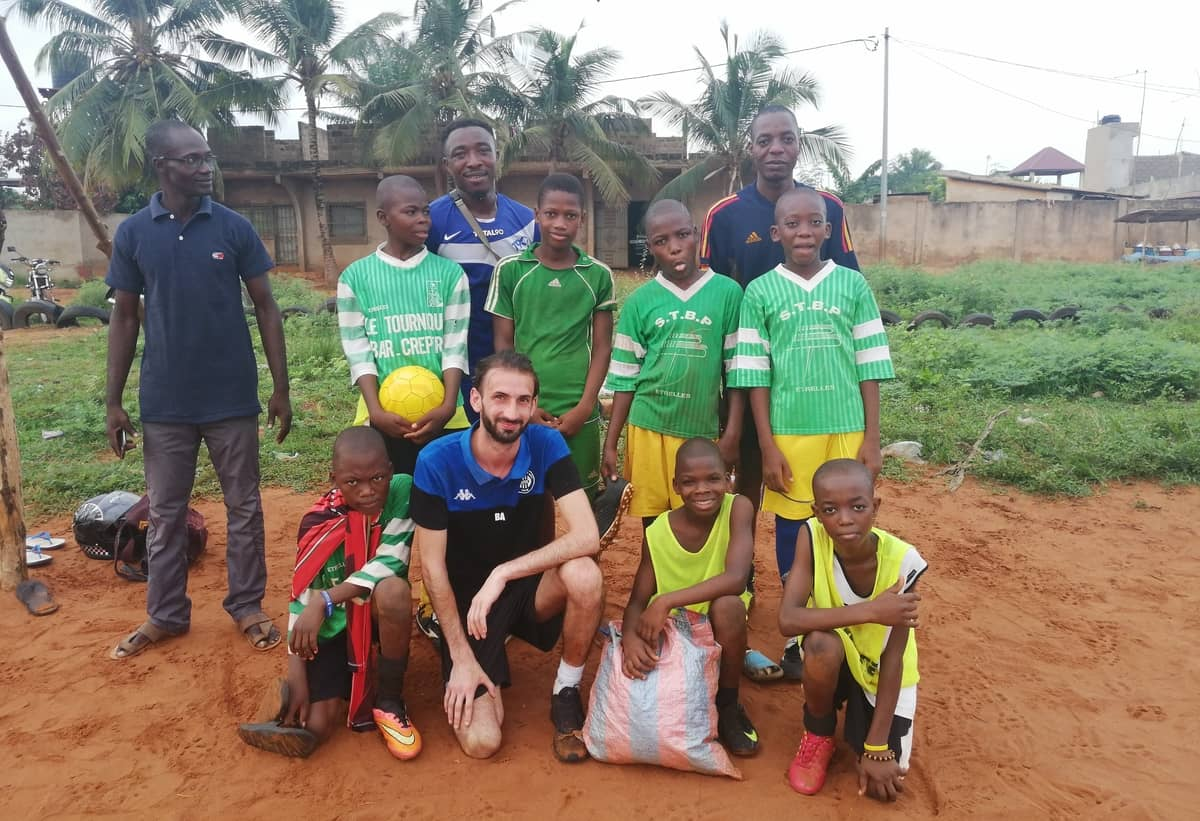
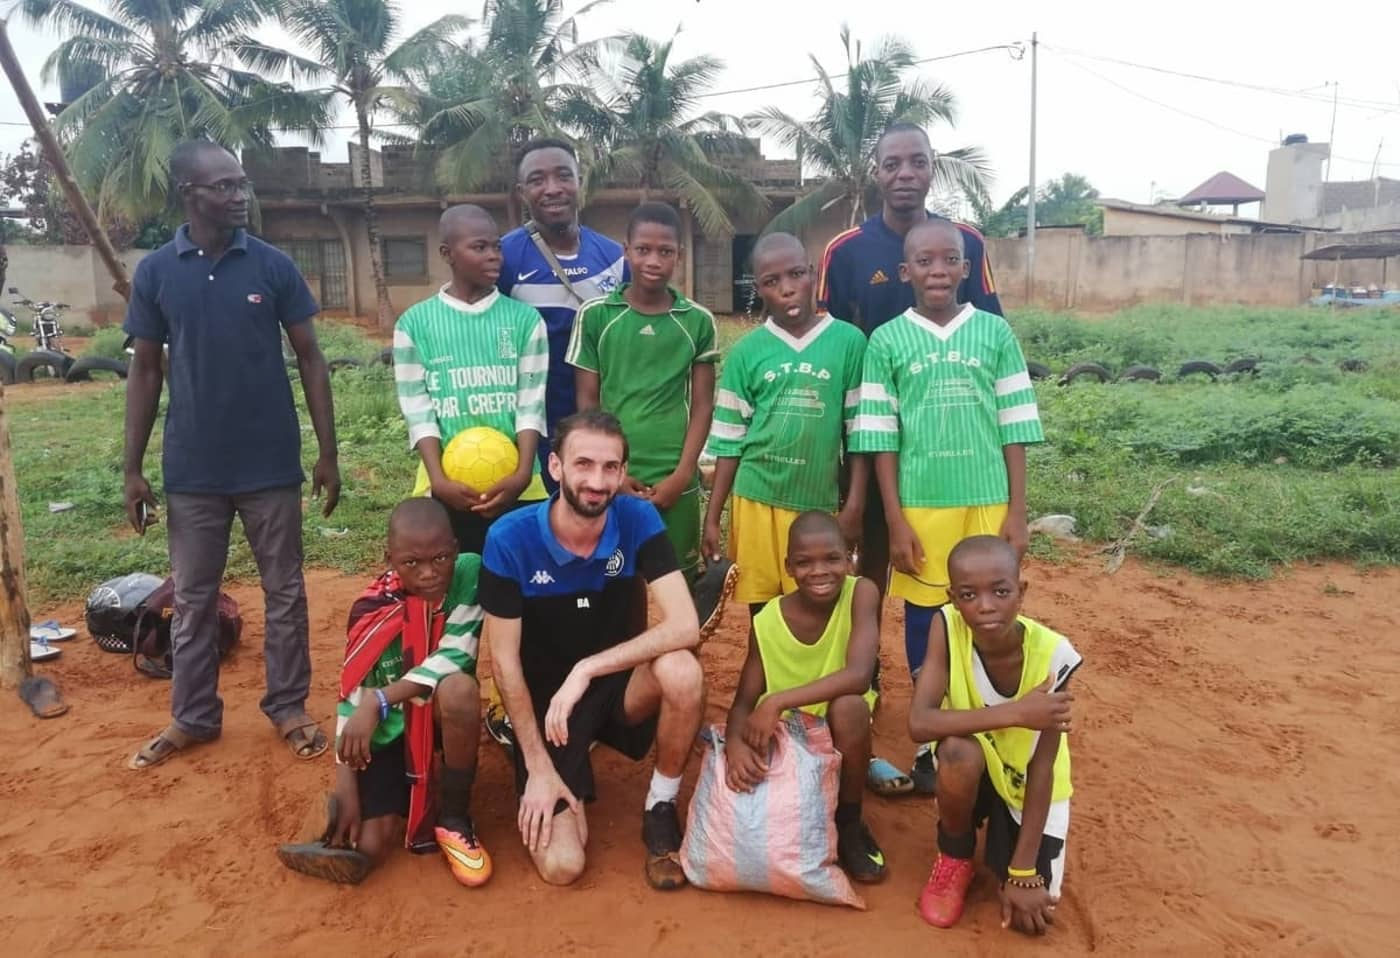
ajout et modif footer

Changed region(s): [[0.4317, 0.5786, 0.4625, 0.609], [0.2158, 0.0305, 0.2467, 0.0609]]

diff --git a/pages/contact.html b/pages/contact.html
@@ -162,7 +162,7 @@
     <div class="items-contact">
       <img
         class="img-contact"
-        src="../assets/img/team-marem.png"
+        src="../assets/img/team-marem.jpg"
         alt="photo team marem"
       />
 
@@ -229,7 +229,7 @@
             alt="logo"
           />
         </div>
-        <h5>&copy; 2021 - Marem France</h5>
+        <h5>&copy; 2021 Marem Togo - France</h5>
       </div>
       <div class="items-socialmedia">
         <ul>

diff --git a/index.html b/index.html
@@ -351,7 +351,7 @@
             alt="logo"
           />
         </div>
-        <h5>&copy; 2021 - Marem France</h5>
+        <h5>&copy; 2021 Marem Togo - France</h5>
       </div>
       <div class="items-socialmedia">
         <ul>

diff --git a/pages/centreAccueil.html b/pages/centreAccueil.html
@@ -312,7 +312,7 @@
             alt="logo"
           />
         </div>
-        <h5>&copy; 2021 - Marem France</h5>
+        <h5>&copy; 2021 Marem Togo - France</h5>
       </div>
       <div class="items-socialmedia">
         <ul>

diff --git a/pages/faireUnDon.html b/pages/faireUnDon.html
@@ -413,7 +413,7 @@
             alt="logo"
           />
         </div>
-        <h5>&copy; 2021 - Marem France</h5>
+        <h5>&copy; 2021 Marem Togo - France</h5>
       </div>
       <div class="items-socialmedia">
         <ul>

diff --git a/pages/maremFrance.html b/pages/maremFrance.html
@@ -212,7 +212,7 @@
             alt="logo"
           />
         </div>
-        <h5>&copy; 2021 - Marem France</h5>
+        <h5>&copy; 2021 Marem Togo - France</h5>
       </div>
       <div class="items-socialmedia">
         <ul>

diff --git a/pages/maremTogo.html b/pages/maremTogo.html
@@ -521,7 +521,7 @@
             alt="logo"
           />
         </div>
-        <h5>&copy; 2021 - Marem France</h5>
+        <h5>&copy; 2021 Marem Togo - France</h5>
       </div>
       <div class="items-socialmedia">
         <ul>

diff --git a/pages/nosActions.html b/pages/nosActions.html
@@ -412,7 +412,7 @@
             alt="logo"
           />
         </div>
-        <h5>&copy; 2021 - Marem France</h5>
+        <h5>&copy; 2021 Marem Togo - France</h5>
       </div>
       <div class="items-socialmedia">
         <ul>
